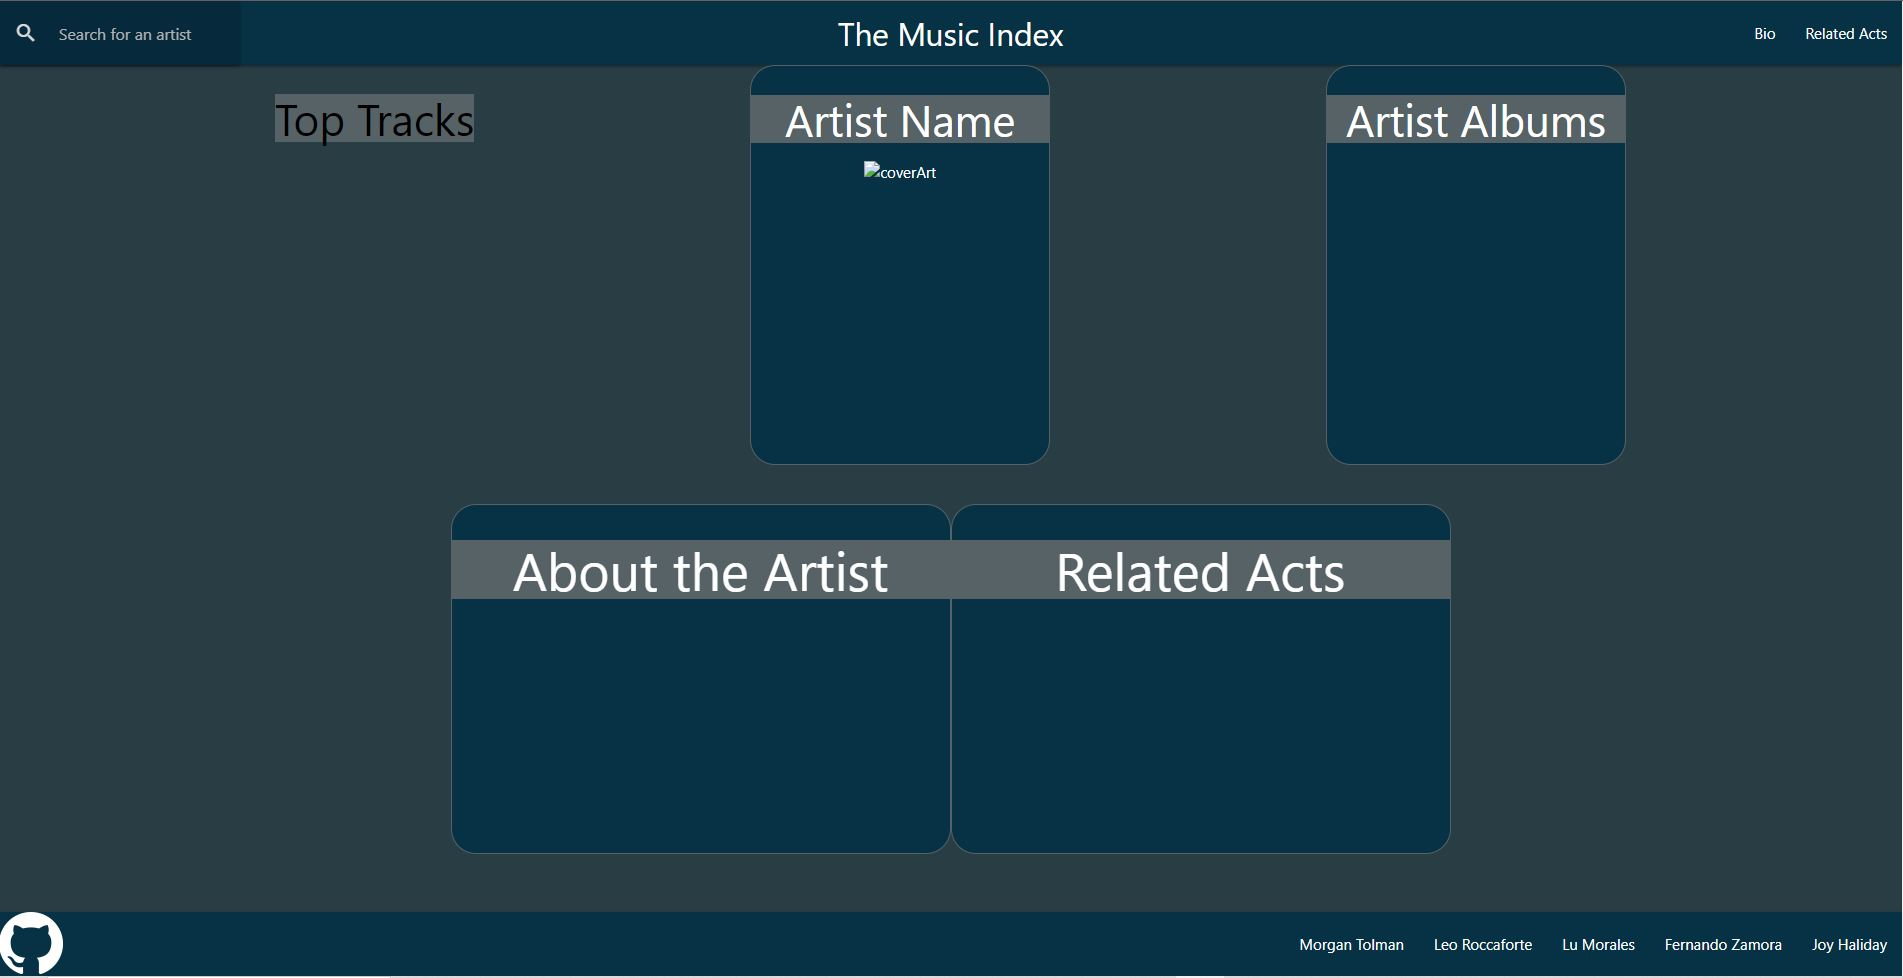
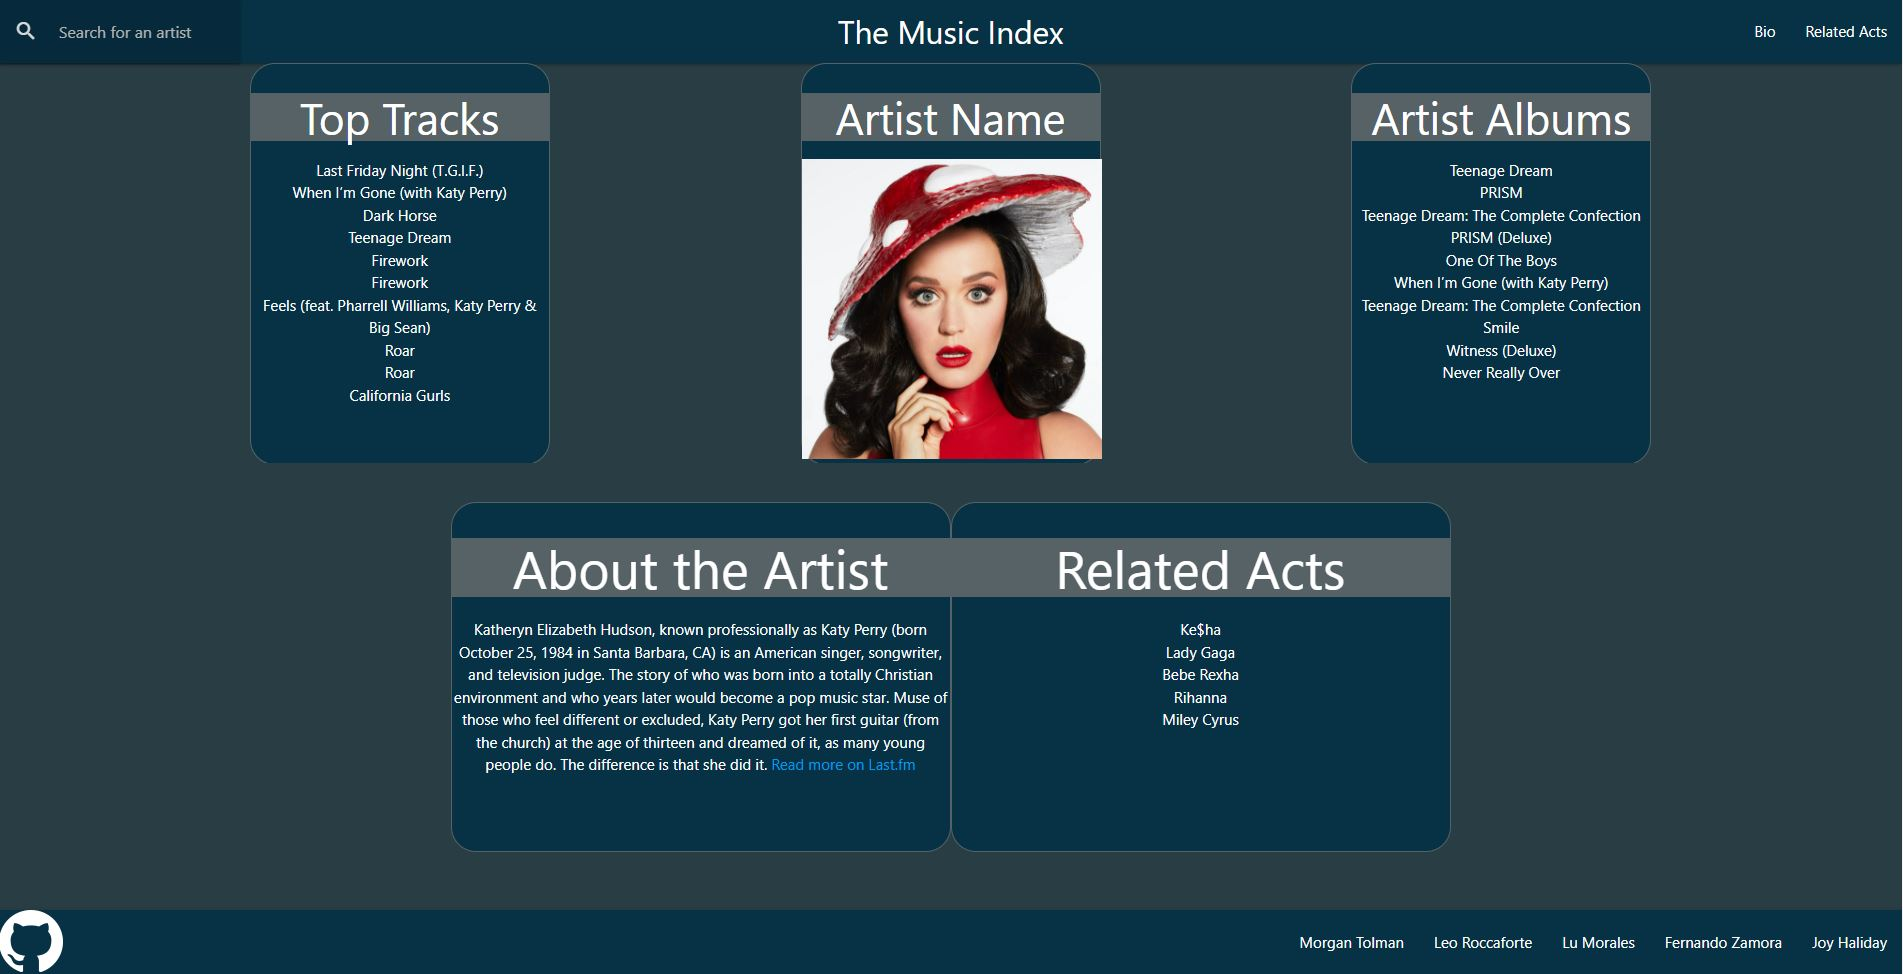
Changed README picture and description.

diff --git a/assets/script/script.js b/assets/script/script.js
@@ -114,9 +114,9 @@ function displayArtistBio(response) {
 if(JSON.parse(localStorage.getItem(`savedTATIData`)) !== null){
     let saved = JSON.parse(localStorage.getItem(`savedTATIData`));
     displayTopAlbumTrackImg(saved);
-}
+};
 //checks if there is saved data in local storage and if there is then it runs its correlating  function passing it along as a parameter.
 if(JSON.parse(localStorage.getItem(`artistBioInfo`)) !== null){
     let savedBioInfo = JSON.parse(localStorage.getItem(`artistBioInfo`));
     displayArtistBio(savedBioInfo);
-}
+};
